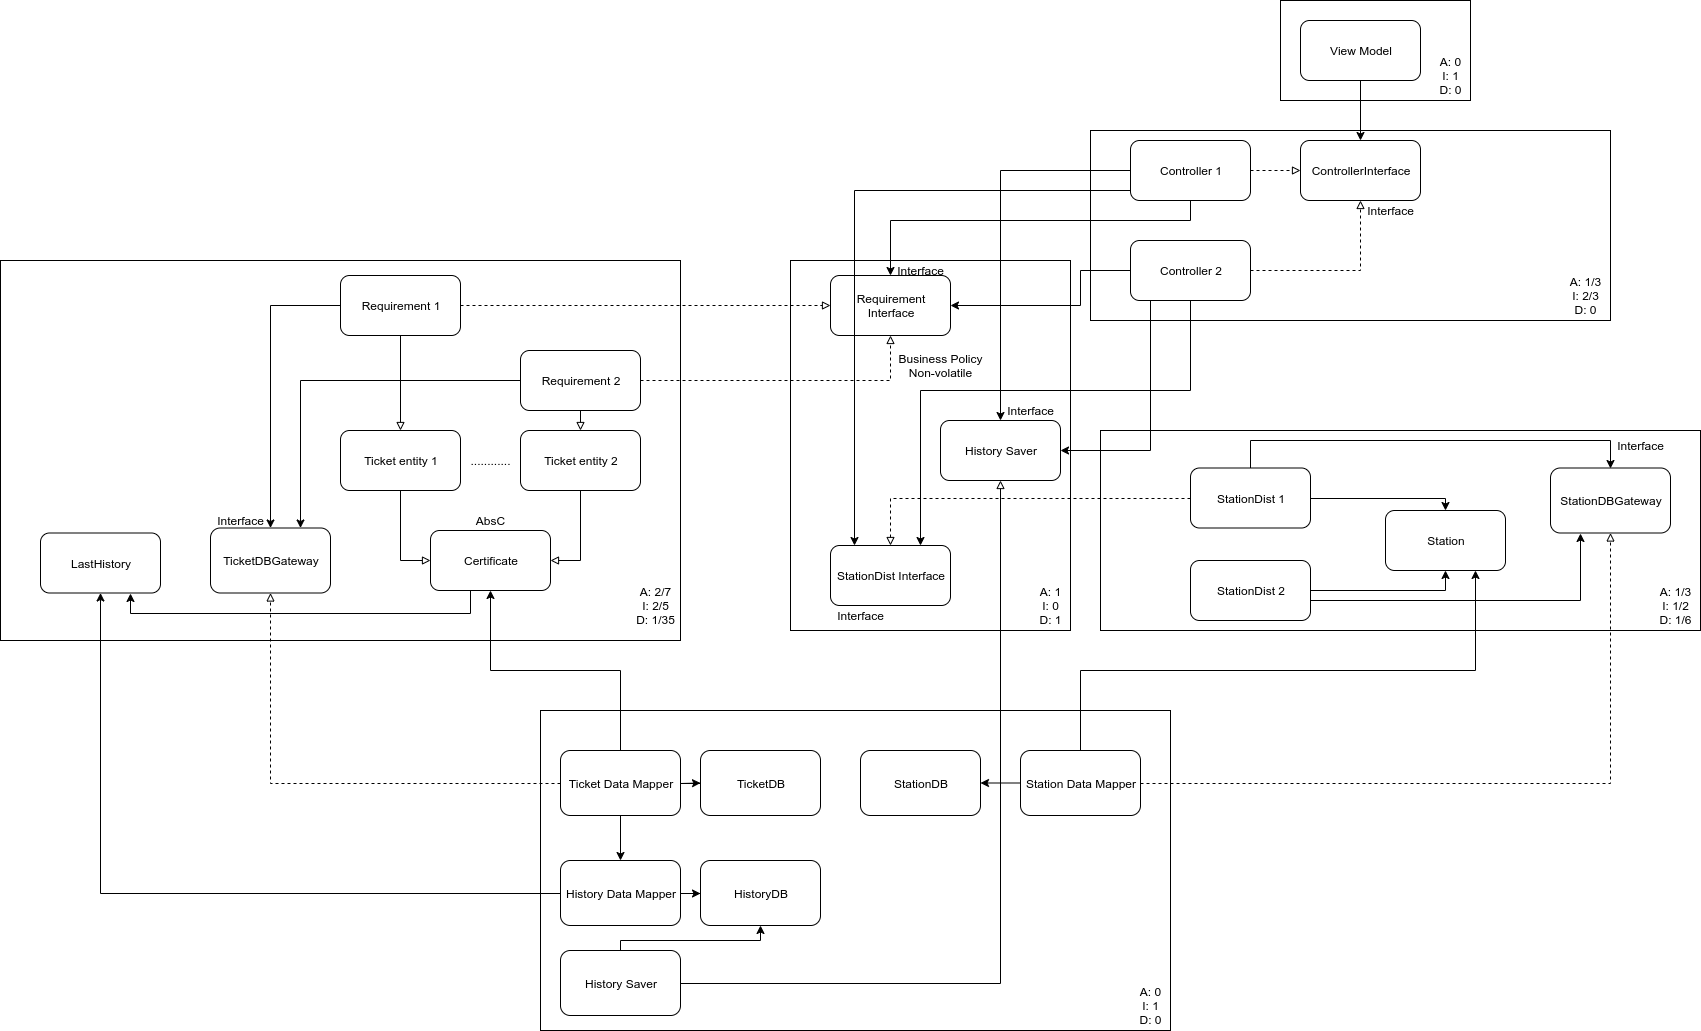
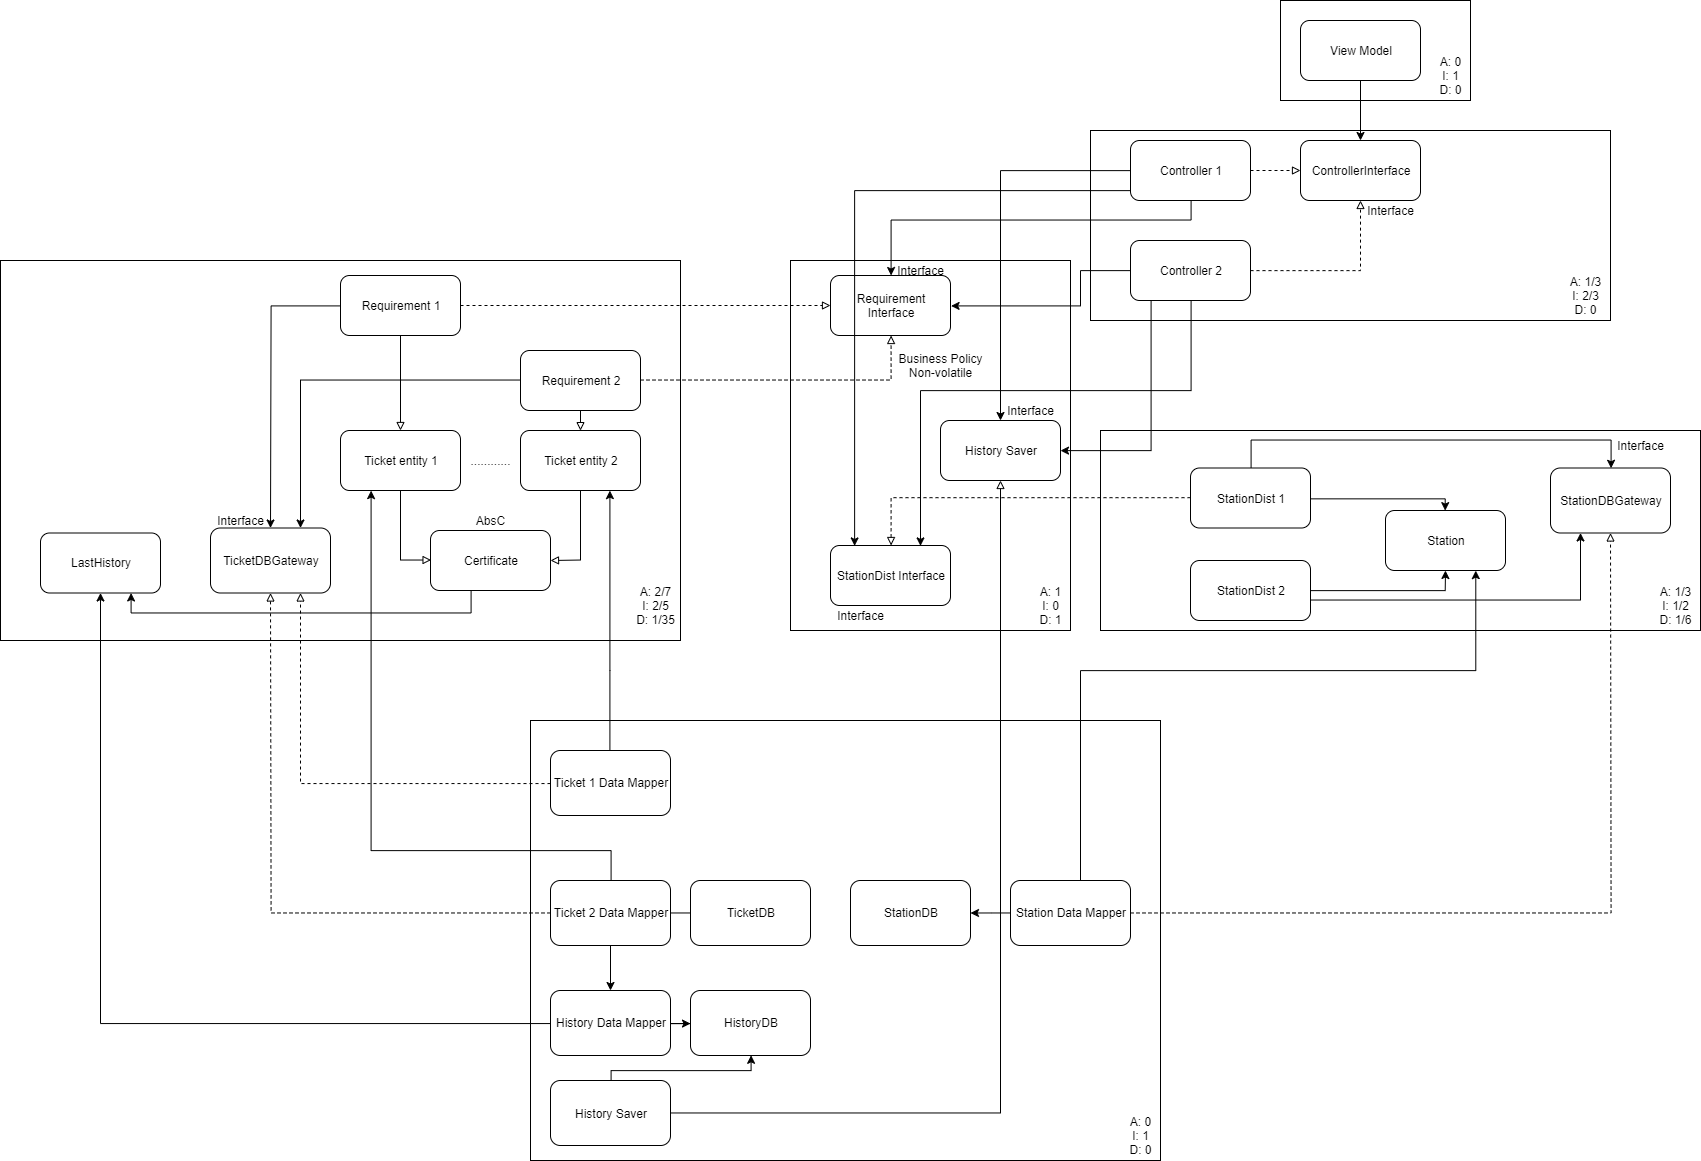
Fixing the diagram

diff --git a/AFC/src/certificate/Certificate.java b/AFC/src/certificate/Certificate.java
@@ -1,6 +1,6 @@
 package certificate;
 
-public class Certificate {
+public abstract class Certificate {
 	private String id;
 	private int type;
 	LastHistory lastHistory;
